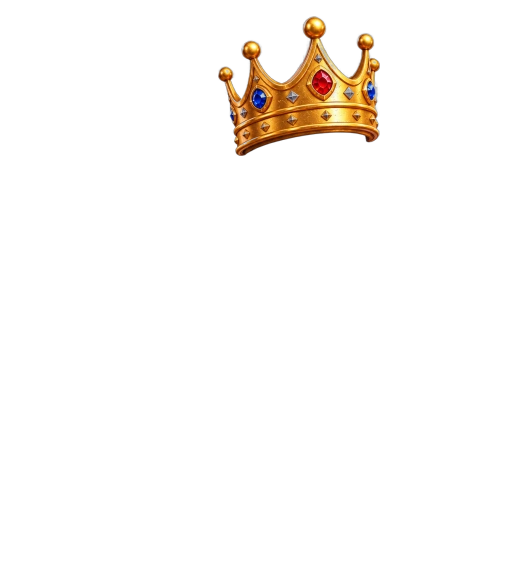
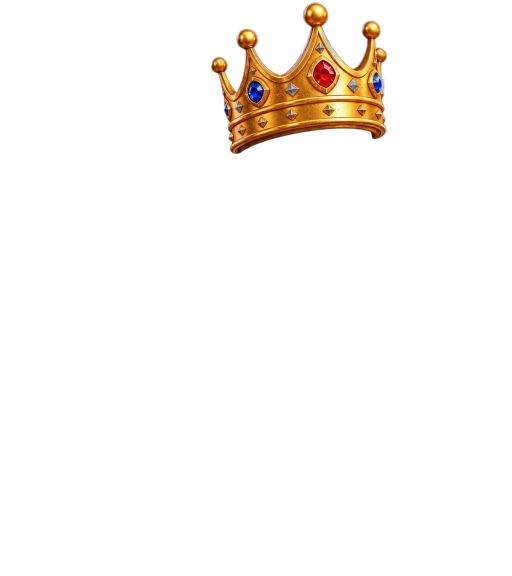
fix: enlarge and reposition caps, crown, ushanka, flipped headband, wizard hat

Changed region(s): [[0.4062, 0.0, 0.75, 0.2812]]

diff --git a/src/ui.tsx b/src/ui.tsx
@@ -123,7 +123,7 @@ export const PIGEON_SKIN_COLORS: Record<string, string> = {
   "iridescent-oil-slick": "#5e5a67", "skin-18": "#5e5a67", "18": "#5e5a67",
 };
 
-const ASSET_V = "?v=25";
+const ASSET_V = "?v=26";
 
 export function resolveSkinSrc(skin?: string | null): string {
   if (!skin || skin === "common" || skin === "default") {

diff --git a/scripts/build-pigeon-assets.py b/scripts/build-pigeon-assets.py
@@ -474,27 +474,31 @@ def extract_accessory_diff(
 HAT_HEADROOM = 64
 STANDALONE_HAT_FIT: dict[int, tuple[int, int, int]] = {
     1: (208, 294, 116),  # Чёрная панама
-    2: (202, 308, 112),  # Жёлтая кепка
-    3: (162, 299, 92),   # Золотая корона
-    4: (224, 290, 174),  # Шапка-ушанка
-    5: (202, 306, 111),  # Красная бейсболка
-    6: (204, 276, 138),  # Красная повязка
-    7: (226, 290, 116),  # Шляпа волшебника
-    8: (196, 298, 112),  # Кусок пиццы
-    9: (178, 300, 112),  # Кроличьи ушки
-    10: (152, 300, 54),  # Золотой нимб
-    11: (198, 307, 110), # Неоновый козырёк
-    12: (194, 295, 119), # Красная шапка с помпоном
-    13: (200, 306, 111), # Кепка с пропеллером
-    14: (194, 298, 113), # Колпак повара
-    15: (220, 296, 113), # Пиратская треуголка
-    16: (210, 298, 116), # Зелёная панама-лягушка
-    17: (216, 294, 130), # Колпак шута
-    18: (212, 288, 160), # Шлем авиатора
+    2: (218, 306, 102),  # Жёлтая кепка (выше глаз и крупнее)
+    3: (180, 299, 90),   # Золотая корона (крупнее)
+    4: (236, 282, 160),  # Шапка-ушанка (шире и левее, чтобы уши не закрывали глаз)
+    5: (216, 304, 101),  # Красная бейсболка (выше глаз и крупнее)
+    6: (210, 268, 120),  # Красная повязка (отзеркалена: узел сзади, лента на лбу)
+    7: (252, 290, 112),  # Шляпа волшебника (значительно крупнее)
+    8: (210, 298, 108),  # Кусок пиццы
+    9: (186, 300, 110),  # Кроличьи ушки
+    10: (158, 300, 52),  # Золотой нимб
+    11: (206, 305, 102), # Неоновый козырёк (выше глаз)
+    12: (198, 295, 110), # Красная шапка с помпоном
+    13: (210, 304, 102), # Кепка с пропеллером (выше глаз и крупнее)
+    14: (204, 298, 108), # Колпак повара
+    15: (236, 296, 108), # Пиратская треуголка
+    16: (216, 298, 108), # Зелёная панама-лягушка
+    17: (224, 294, 124), # Колпак шута
+    18: (222, 286, 154), # Шлем авиатора
 }
 STANDALONE_HAT_ANGLES: dict[int, float] = {
-    1: -7.0,  # Чёрная панама: лёгкий наклон вперёд по линии бровей
+    1: -7.0,  # Чёрная панама: наклон вперёд по линии бровей
+    2: -4.0,  # Жёлтая кепка
+    4: 8.0,   # Ушанка: отводим переднее ухо от глаза
+    5: -4.0,  # Красная бейсболка
 }
+STANDALONE_HAT_FLIP_X: set[int] = {6}  # Повязка: узел и хвосты сзади головы
 
 
 def build_standalone_hats_assets(session, ref_rgba: np.ndarray | None = None):
@@ -545,6 +549,8 @@ def build_standalone_hats_assets(session, ref_rgba: np.ndarray | None = None):
                 if len(ys) == 0:
                     continue
                 crop = seg_rgba[ys.min():ys.max() + 1, xs.min():xs.max() + 1]
+                if item_idx in STANDALONE_HAT_FLIP_X:
+                    crop = cv2.flip(crop, 1)
                 angle = STANDALONE_HAT_ANGLES.get(item_idx, 0.0)
                 if angle != 0.0:
                     ch0, cw0 = crop.shape[:2]
